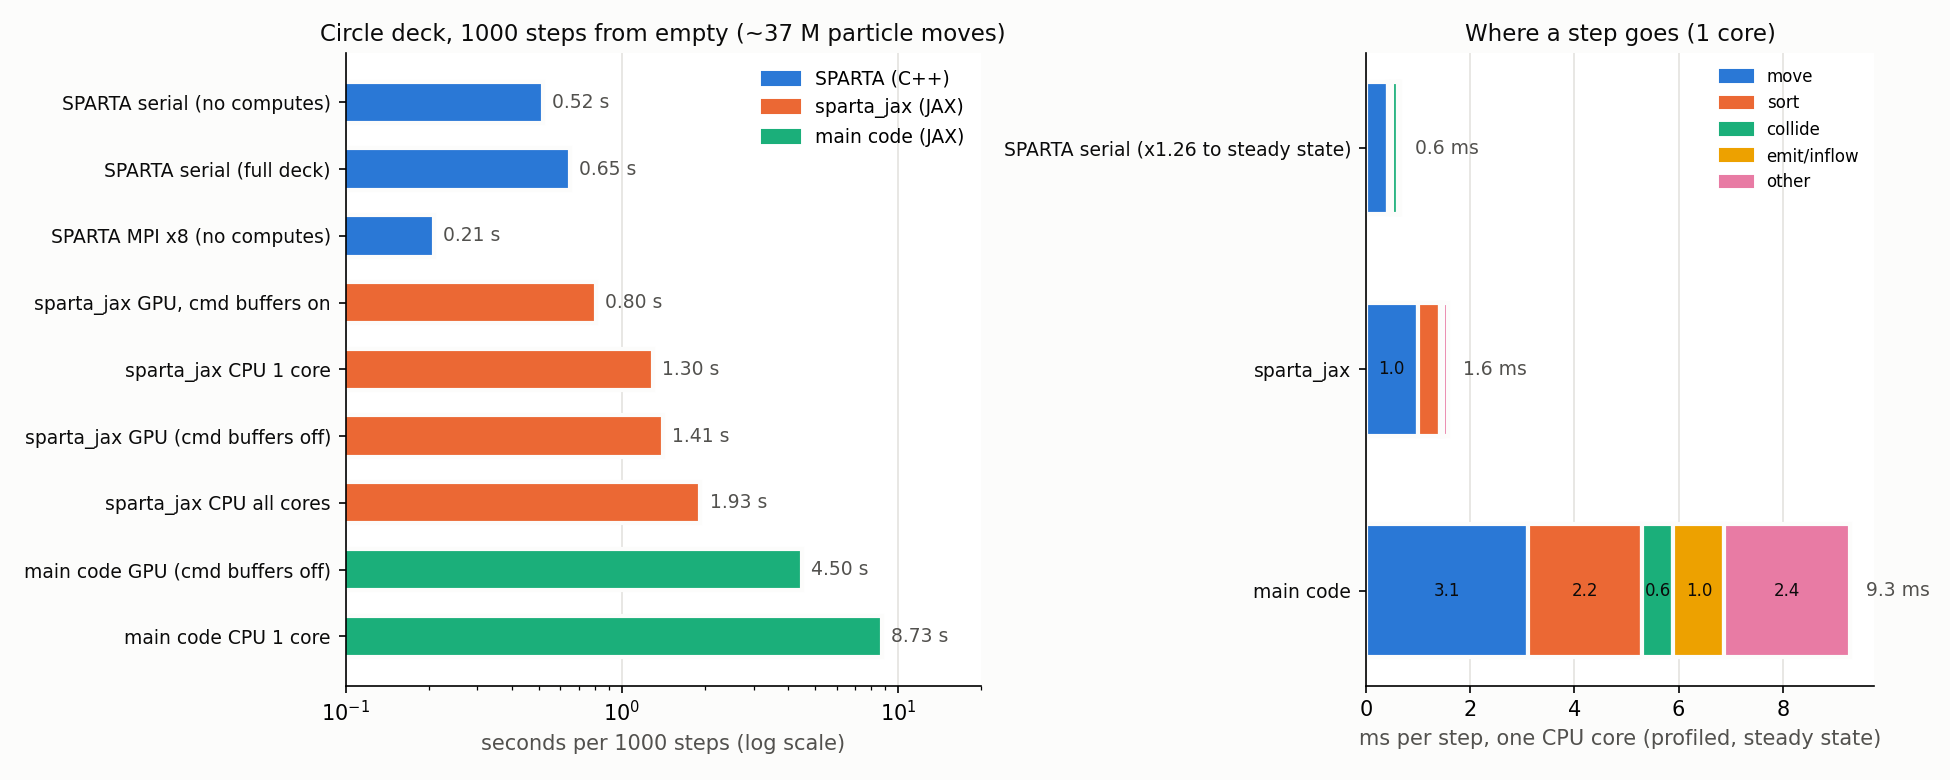
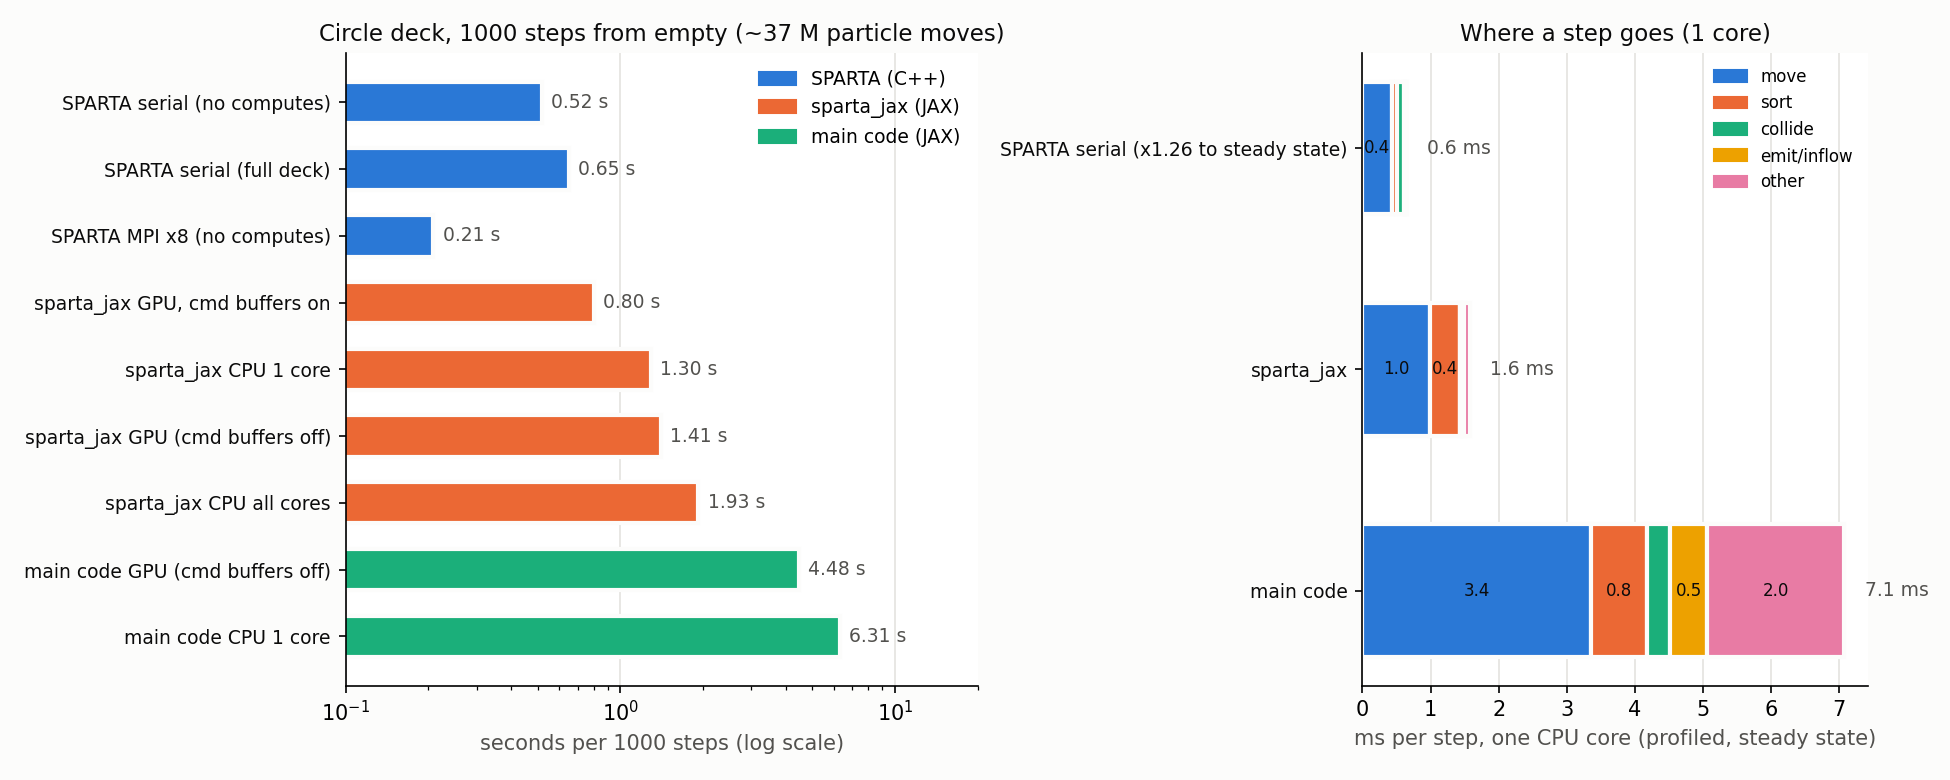
sparta_jax: sort experiments, final main-code comparison numbers

diff --git a/sparta_jax/README.md b/sparta_jax/README.md
@@ -107,21 +107,21 @@ Each timing is 1000 steps from an empty box, about 36.9 M particle moves (counte
 | sparta_jax | CPU, all 16 cores (XLA default threading) | 1.926 | 3.7 |
 | sparta_jax, `sort=full` | GPU (RTX 3050 Ti), command buffers off (WSL-safe flags) | 1.410 | 2.7 |
 | sparta_jax, `sort=full` | GPU, command buffers on | **0.805** | 1.6 |
-| main code (JAX-DSMC, polygon, lane tracker) | CPU, 1 core | 8.73 | 16.8 |
-| main code | GPU, command buffers off | 4.50 | 8.7 |
+| main code (JAX-DSMC main, polygon, lane tracker, partition sort) | CPU, 1 core | 6.31 | 12.2 |
+| main code | GPU, command buffers off | 4.48 | 8.6 |
 
 ### Per-stage breakdown on one CPU core
 
-ms per step at steady state (about 46-47.6k particles). sparta_jax: `results/profile_cpu1_final.json`; main code: the main repo's `scratch/perf/profile/forward_cpu_serial_polygon_final.json`. SPARTA's own timers average over the 1000-step fill (mean 37k particles), so they are scaled by 1.26 to steady state.
+ms per step at steady state (about 46-47.6k particles). sparta_jax: `results/profile_cpu1_final.json`; main code: main's `scratch/perf/profile/forward_cpu_serial.json` (2026-10-01 evening, after the partition sort). SPARTA's own timers average over the 1000-step fill (mean 37k particles), so they are scaled by 1.26 to steady state.
 
 | Stage | SPARTA serial | sparta_jax | ratio | main code |
 |---|---|---|---|---|
-| Move (straight move, surface collisions, boundaries) | 0.43 | 1.00 (walk 0.70, dense 0.21, lane select 0.09) | 2.3x | 3.12 (surface search 1.62, tracker 1.41, wall events 0.09) |
-| Sort | 0.068 | 0.44 | 6.4x | 2.18 |
-| Collide (NTC, 0 attempts) | 0.113 | 0.005 | 0.04x | 0.60 |
-| Emit / inflow | 0.030 | 0.051 | 1.7x | 0.98 |
-| Other | ~0 | 0.08 | | 2.41 |
-| **Total** | **0.64** | **1.57** (1.30 without the profiler) | **2.5x** | **9.3** |
+| Move (straight move, surface collisions, boundaries) | 0.43 | 1.00 (walk 0.70, dense 0.21, lane select 0.09) | 2.3x | 3.35 (surface search + inside check 1.58, tracker 1.47, wall events 0.30) |
+| Sort | 0.068 | 0.44 | 6.4x | 0.83 (partition sort) |
+| Collide (NTC, 0 attempts) | 0.113 | 0.005 | 0.04x | 0.34 |
+| Emit / inflow | 0.030 | 0.051 | 1.7x | 0.54 (Halley sampler 0.37, slots and entrant tracking 0.17) |
+| Other | ~0 | 0.08 | | 2.01 (small-op overhead 1.69, cell temperature 0.30) |
+| **Total** | **0.64** | **1.57** (1.30 without the profiler) | **2.5x** | **7.1** (8.0 wall under the profiler) |
 
 ### Work accounting: is the move gap XLA, or extra work?
 
@@ -188,17 +188,12 @@ code now uses the same partition sort (`jax_dsmc.sort.update_table`, `SimStatic.
 | Dense straight move + compacted near lane (cut-free ring as a distance table) | Exact routing bound; draws keyed per particle so the routing does not change randomness | Move 6.3 -> ~1 ms | Ported for XLA:CPU (`wall_adjoint._first_pass_routed`, `mesh.geometry.near_tables`). On GPU the old dense pass 0 is kept: the lane's gathers/scatters cost more launches than they save. |
 | Variadic `lax.reduce` for the earliest hit (time + id + passengers) | Hit time re-formed from the winner's plane for the tangent | Removes recomputed hit tests | Ported (`mesh.geometry._element_hit`) |
 | Counter-based per-particle wall draws (`fold_in(key, slot)`) | Forward, replay and adjoint use the same keyed draws | Removes the full-width per-pass draws (~1 ms) | Ported (`wall_adjoint._slot_uniforms`) |
-| Blocked prefix sum, `materialise`, `floor_int` | Integer-exact | Large in sparta_jax | Tried in the main code: bitwise identical but no measurable gain (its compactions are not on the critical path); not merged |
+| Blocked prefix sum, `materialise`, `floor_int` | Integer-exact | Large in sparta_jax | The blocked prefix sum is in main (`jax_dsmc.compaction.prefix_count`, a small gain); `floor_int` was bitwise but gave nothing measurable there and was not merged |
 | Partition sort (carry the previous order; sort only the slots that changed cell) | A carried order in the collide state; NTC pair draws differ within a cell (same distribution) | Sort 0.9 -> 0.44 ms | Ported for XLA:CPU (`jax_dsmc.sort.update_table`, `SimStatic.sort = "partition"`): 2.2 -> ~1.0 ms per step. GPU keeps the full sort. |
 | Cells-parallel NTC attempt loop (`while_loop` trip count = max attempts) | Same recorded pairs format | 1.6 -> 0.005 ms | Partly: the scratch-row copies are gone (1.6 -> 0.6 ms); the slot scan structure stays |
 
 ## Conclusions
 
 1. **XLA vs C++, same algorithm, one CPU core: 2.5x** (1.295 s vs 0.518 s), and 2.3x with tallies against SPARTA's full deck. By stage: move 2.3x, sort 6.4x, emit 1.7x, collisions faster in JAX (all cells at once). The work accounting shows the residual is per-op XLA runtime overhead and lock-step padding, not extra algorithmic work. On GPU with command buffers sparta_jax is 1.6x SPARTA serial, and 3.9x SPARTA MPI x8.
-2. **The main code is 6.7x slower than sparta_jax on one CPU core** (8.73 s vs 1.295 s; was 10.5x before 2026-10-01) **and 3.2x on GPU** (4.50 s vs 1.41 s, same flags). By stage (main minus sparta_jax, ms per step):
-   * move/tracker: +2.1;
-   * sort: +1.7 (full packed sort of every slot vs the partition sort);
-   * other: +2.3 (record and diagnostic bookkeeping, RNG key derivations, score accumulators);
-   * inflow: +0.9 (entrant tracking and slot assignment; the Halley sampler itself is ~0.1);
-   * collide: +0.6 (slot scan).
-3. **Budget on one CPU core: main code 8.73 s ≈ SPARTA 0.52 s × 2.5 (XLA) × 6.7 (the main code's differentiable machinery).** The main code is 16.8x SPARTA serial (was 51x on 2026-09-28). Getting under 5x needs the sort and the "other" bookkeeping restructured; the tracker is no longer the dominant cost.
+2. **The main code is 4.9x slower than sparta_jax on one CPU core** (6.31 s vs 1.295 s; 10.5x on 2026-09-30) **and 3.2x on GPU** (4.48 s vs 1.41 s, same flags). By stage (main minus sparta_jax, ms per step): move/tracker +2.4, other +1.9 (small-op overhead: ~280 tiny reductions and ~40 carry copies per step, and the cell temperature the certified majorant needs), inflow +0.5, sort +0.4 (the same partition sort, over 60k slots), collide +0.3.
+3. **Budget on one CPU core: main code 6.31 s ≈ SPARTA 0.52 s × 2.5 (XLA) × 4.9 (the main code's differentiable machinery).** The main code is 12.2x SPARTA serial (51x on 2026-09-28). Getting under 5x needs fewer, larger XLA ops in the tracker and the bookkeeping; the sort is now the same as sparta_jax's.
